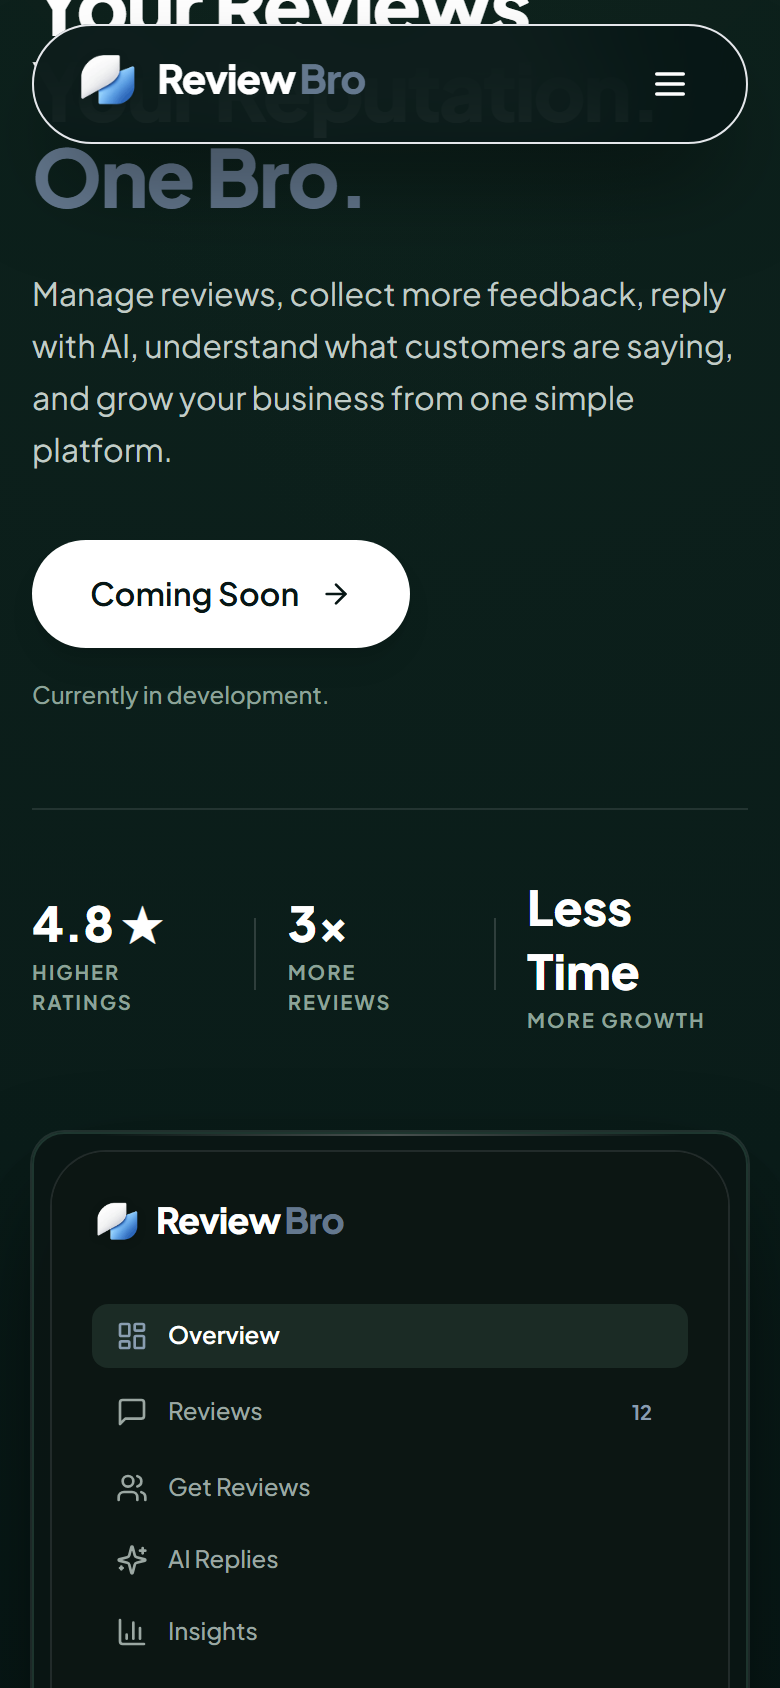
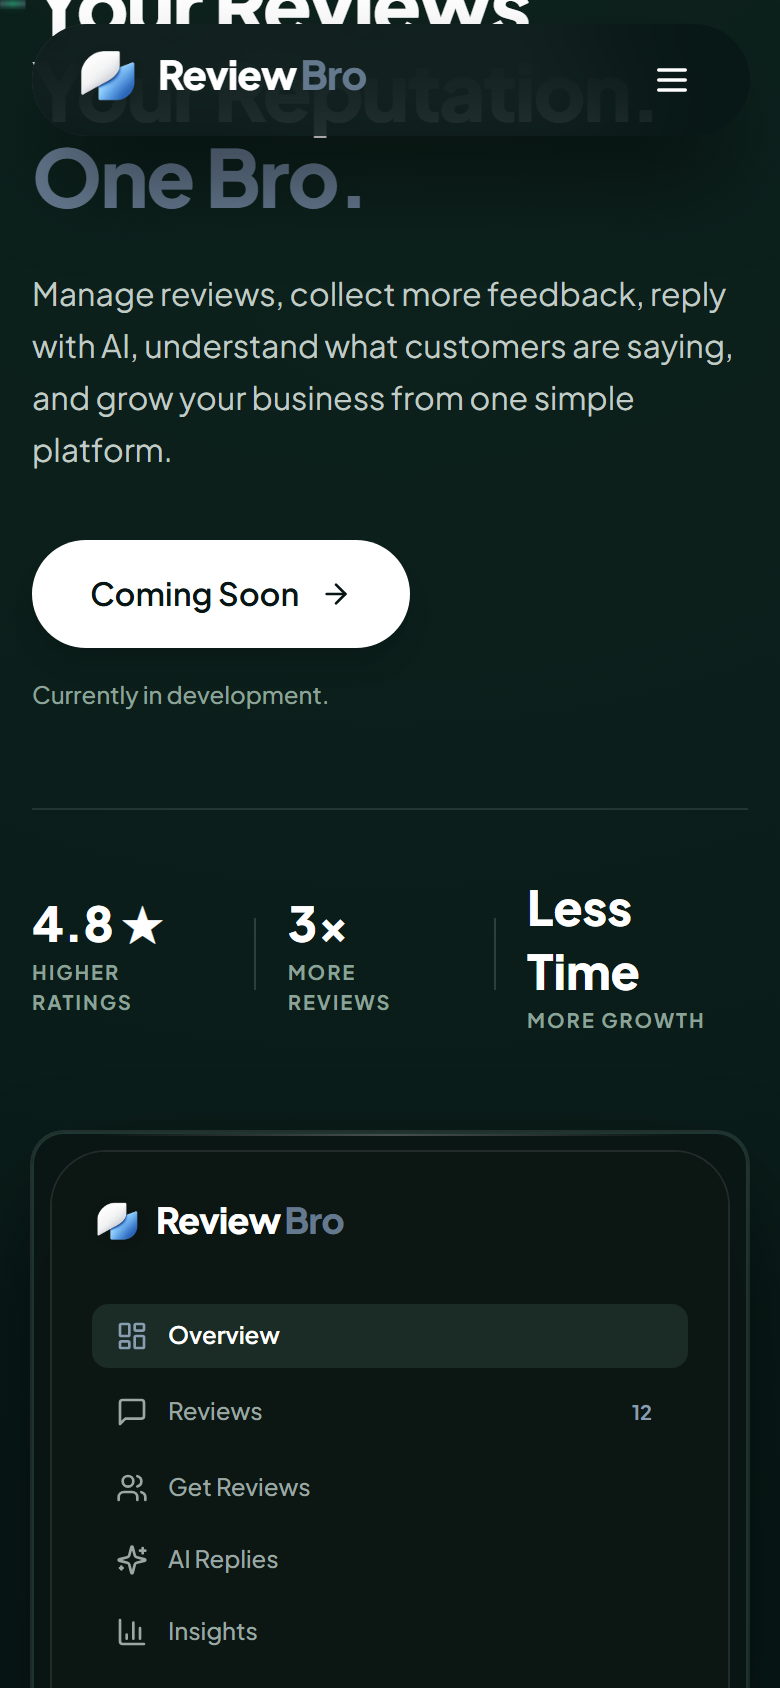
fix: remove white outline from navbar in dark hero section and smoothen morph transition

diff --git a/src/components/layout/Navbar.tsx b/src/components/layout/Navbar.tsx
@@ -32,7 +32,8 @@ export const Navbar: React.FC<NavbarProps> = ({
   useEffect(() => {
     const checkScrollState = () => {
       const scrollY = window.scrollY
-      setIsScrolled(scrollY > 20)
+      // Refined threshold so the morph begins gracefully as user scrolls
+      setIsScrolled(scrollY > 35)
 
       // Detect if floating navbar intersects light section (#product)
       const productSection = document.getElementById('product')
@@ -82,21 +83,22 @@ export const Navbar: React.FC<NavbarProps> = ({
     <>
       <header
         className={cn(
-          'fixed top-0 inset-x-0 z-50 pointer-events-none transition-all duration-300 ease-out',
+          'fixed top-0 inset-x-0 z-50 pointer-events-none transition-[padding] duration-500 ease-[cubic-bezier(0.2,0.8,0.2,1)]',
           className
         )}
       >
         <div
           className={cn(
-            'pointer-events-auto transition-all duration-300 ease-[cubic-bezier(0.16,1,0.3,1)] flex items-center justify-between',
+            'pointer-events-auto flex items-center justify-between rounded-full',
+            'transition-[max-width,width,padding,margin,background-color,border-color,box-shadow] duration-500 ease-[cubic-bezier(0.2,0.8,0.2,1)] will-change-[max-width,width,transform]',
             isScrolled
-              ? 'mt-3 sm:mt-4 mx-auto w-[92%] sm:w-[88%] lg:w-[80%] max-w-4xl py-2.5 px-5 sm:px-6 rounded-full'
-              : 'mt-0 mx-auto w-full max-w-7xl py-5 px-4 sm:px-6 lg:px-8 rounded-none',
+              ? 'mt-3 sm:mt-4 mx-auto w-[92%] sm:w-[88%] lg:w-[78%] max-w-4xl py-2 px-5 sm:px-6'
+              : 'mt-0 mx-auto w-full max-w-7xl py-5 px-4 sm:px-6 lg:px-8',
             // Visual capsule styles & adaptive theme
             !isScrolled
               ? 'bg-transparent border border-transparent shadow-none text-white'
               : isDark
-                ? 'bg-[#071615]/90 backdrop-blur-xl border border-white/12 shadow-2xl shadow-black/50 text-white'
+                ? 'bg-[#071615]/85 backdrop-blur-xl border border-transparent shadow-2xl shadow-black/70 text-white'
                 : 'bg-white/92 backdrop-blur-xl border border-neutral-200/90 shadow-xl shadow-neutral-900/10 text-neutral-900'
           )}
         >
@@ -118,7 +120,7 @@ export const Navbar: React.FC<NavbarProps> = ({
                 href={link.href}
                 onClick={(e) => handleScrollTo(e, link.href)}
                 className={cn(
-                  'relative py-1 transition-colors duration-150 rounded-md focus:outline-none focus-visible:ring-2 focus-visible:ring-brand-slate-light',
+                  'relative py-1 transition-colors duration-200 rounded-md focus:outline-none focus-visible:ring-2 focus-visible:ring-brand-slate-light',
                   isDark
                     ? 'text-white/80 hover:text-white after:absolute after:bottom-0 after:left-0 after:w-0 hover:after:w-full after:h-0.5 after:bg-brand-slate after:transition-all'
                     : 'text-neutral-600 hover:text-neutral-950 after:absolute after:bottom-0 after:left-0 after:w-0 hover:after:w-full after:h-0.5 after:bg-neutral-900 after:transition-all'
@@ -137,9 +139,9 @@ export const Navbar: React.FC<NavbarProps> = ({
               className="inline-block"
             >
               <Button
-                variant={isDark ? (isScrolled ? 'primary-pill' : 'outline') : 'dark-pill'}
+                variant={isDark ? 'outline' : 'dark-pill'}
                 size="sm"
-                className="text-xs px-4 py-1.5 h-9 rounded-full transition-all duration-200 hover:scale-[1.02] active:scale-[0.98]"
+                className="text-xs px-4 py-1.5 h-9 rounded-full transition-all duration-300 hover:scale-[1.02] active:scale-[0.98]"
               >
                 Coming Soon
               </Button>
@@ -169,7 +171,7 @@ export const Navbar: React.FC<NavbarProps> = ({
                 ? 'w-[92%] sm:w-[88%] mx-auto'
                 : 'w-[calc(100%-2rem)] max-w-7xl mx-auto',
               isDark
-                ? 'bg-[#071615]/95 backdrop-blur-2xl border-white/12 text-white shadow-2xl'
+                ? 'bg-[#071615]/95 backdrop-blur-2xl border-transparent text-white shadow-2xl'
                 : 'bg-white/95 backdrop-blur-2xl border-neutral-200 text-neutral-900 shadow-xl'
             )}
           >
@@ -195,7 +197,7 @@ export const Navbar: React.FC<NavbarProps> = ({
                 className="block w-full"
               >
                 <Button
-                  variant={isDark ? 'primary-pill' : 'dark-pill'}
+                  variant={isDark ? 'outline' : 'dark-pill'}
                   size="sm"
                   className="w-full justify-center text-xs"
                 >
